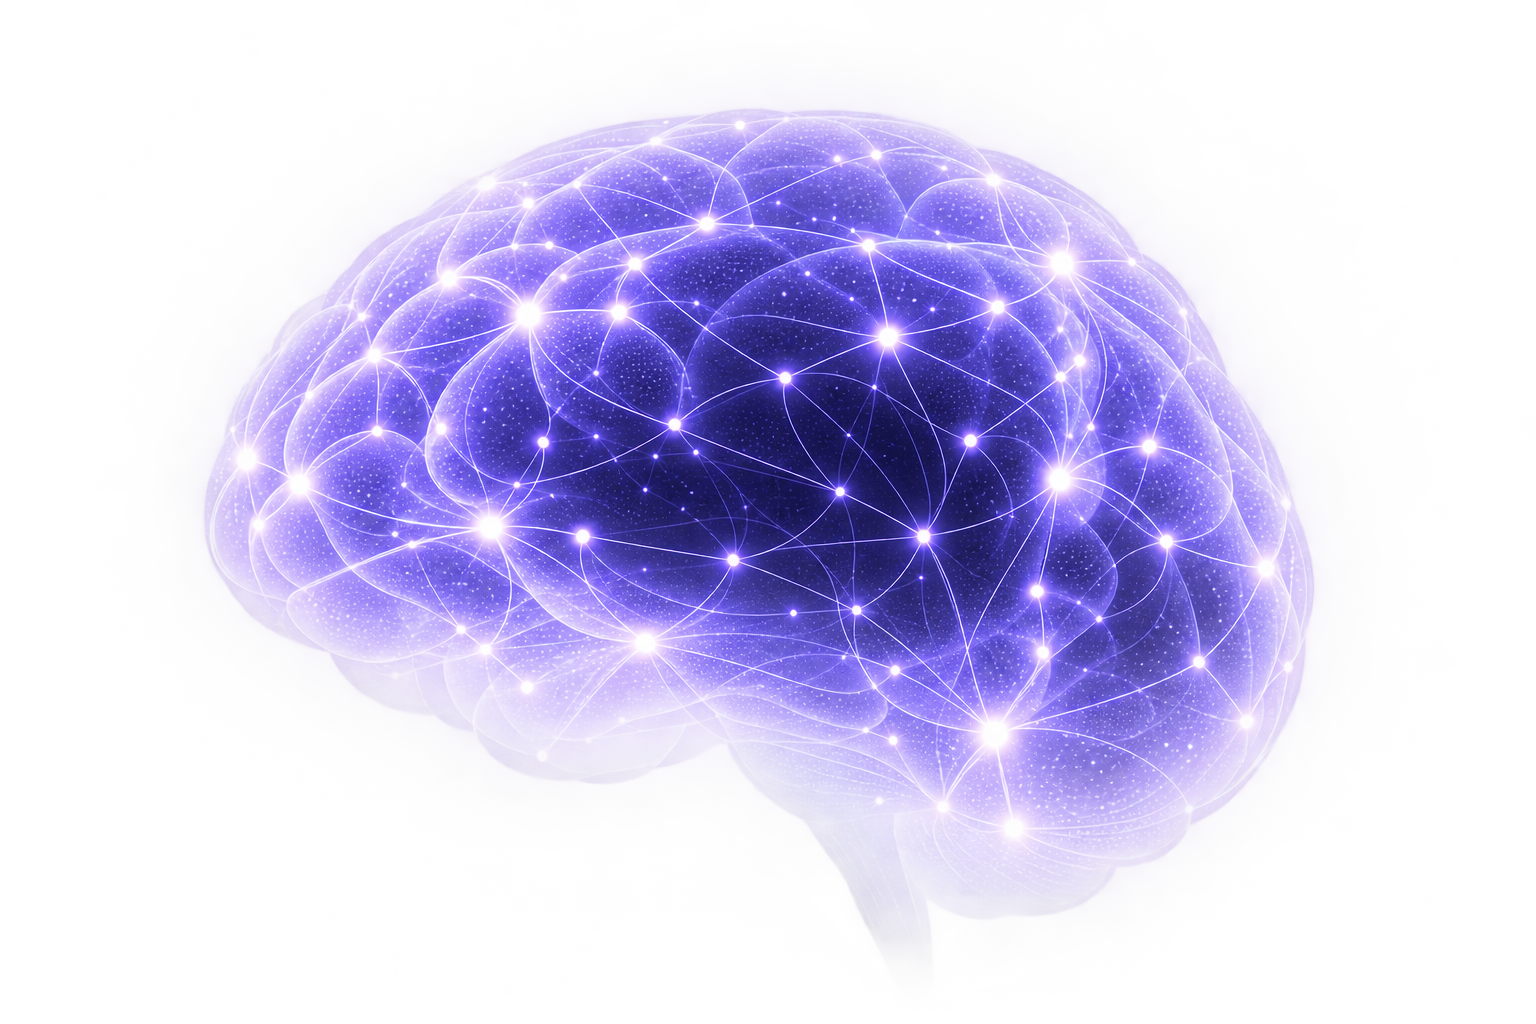
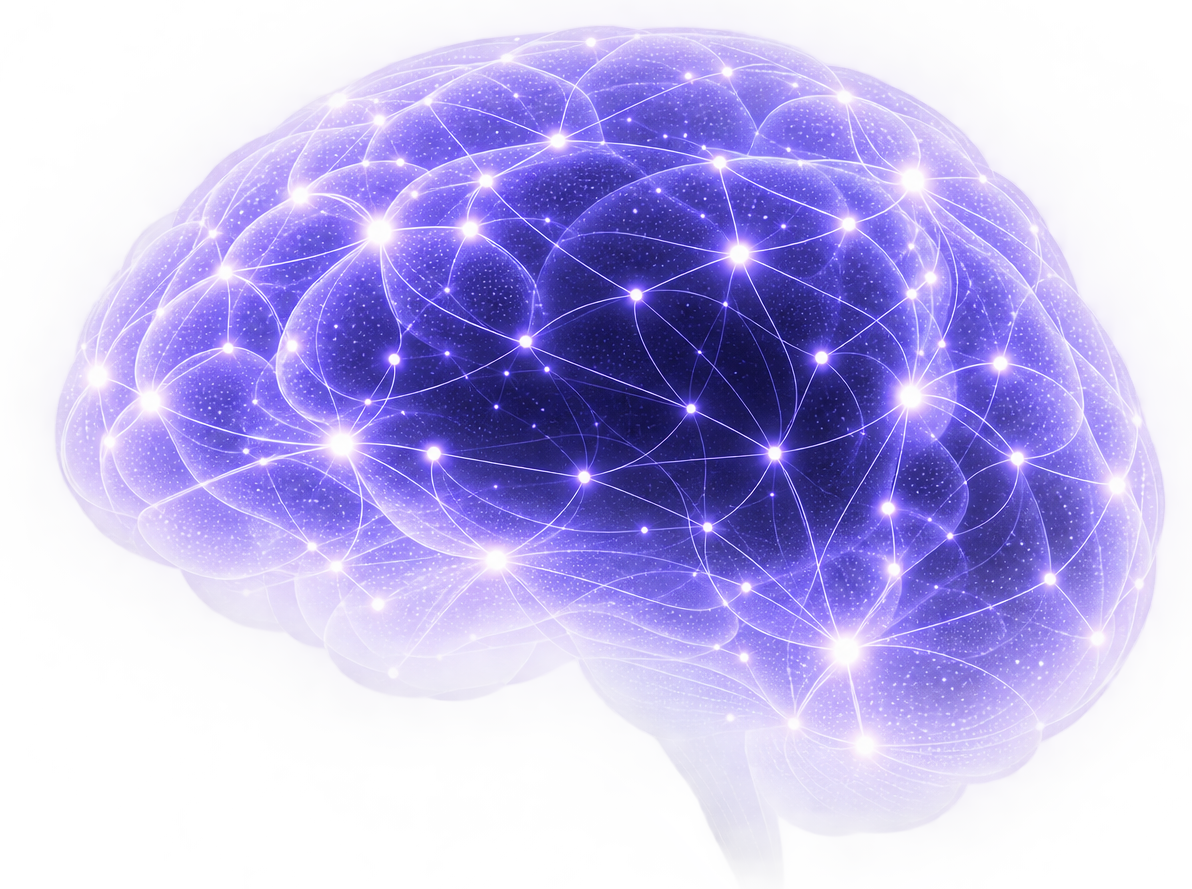
Product section added

diff --git a/app/globals.css b/app/globals.css
@@ -776,3 +776,215 @@ h1,h2,h3,p{margin-top:0}.hero h1,.page-hero h1{font-size:clamp(44px,6vw,82px);li
   .product-card-link { transition: none; }
   .product-card-link:hover { transform: none; }
 }
+
+.services-section {
+  position: relative;
+  background: #020205;
+  color: #fff;
+  border-top: 1px solid var(--line);
+  overflow: hidden;
+}
+.services-glow {
+  position: absolute;
+  left: 50%;
+  top: 58%;
+  width: min(78vw, 920px);
+  height: min(52vw, 480px);
+  transform: translate(-50%, -50%);
+  background: radial-gradient(ellipse at center, rgba(124, 58, 237, 0.1) 0%, rgba(37, 99, 235, 0.05) 38%, transparent 72%);
+  pointer-events: none;
+}
+.services-inner {
+  position: relative;
+  max-width: 1400px;
+  margin: 0 auto;
+  padding: 120px 32px 128px;
+}
+.services-heading {
+  max-width: 820px;
+  margin: 0 0 64px;
+}
+.services-heading h2 {
+  font-size: clamp(32px, 3.8vw, 52px);
+  font-weight: 400;
+  letter-spacing: -0.035em;
+  line-height: 1.05;
+  margin: 12px 0 10px;
+}
+.services-heading h2 em {
+  font-style: normal;
+  background: linear-gradient(90deg, #ddd6fe 0%, var(--violet-soft) 42%, #7c6bff 72%, #60a5fa 100%);
+  -webkit-background-clip: text;
+  background-clip: text;
+  color: transparent;
+}
+.services-heading p {
+  color: #a1a1aa;
+  max-width: 540px;
+  line-height: 1.6;
+  font-size: 15px;
+  margin: 0;
+}
+.services-grid {
+  display: grid;
+  grid-template-columns: 1fr;
+  gap: 16px;
+}
+.service-card-wrap {
+  min-width: 0;
+  height: 100%;
+}
+.service-card {
+  position: relative;
+  isolation: isolate;
+  display: flex;
+  flex-direction: column;
+  height: 100%;
+  min-height: 280px;
+  padding: 28px;
+  border-radius: 24px;
+  overflow: hidden;
+  color: inherit;
+  background-color: #08070c;
+  background-image:
+    radial-gradient(ellipse 70% 90% at 100% 0%, rgba(124, 58, 237, 0.08), transparent 52%),
+    linear-gradient(165deg, #121018 0%, #0b0a10 58%, #08070c 100%);
+  border: 1px solid rgba(255, 255, 255, 0.08);
+  box-shadow: 0 18px 48px rgba(0, 0, 0, 0.28);
+  transition: border-color 0.3s ease, box-shadow 0.3s ease, transform 0.3s ease;
+}
+.service-card::before {
+  content: "";
+  position: absolute;
+  inset: 0;
+  z-index: -1;
+  background:
+    radial-gradient(ellipse 80% 70% at 100% 0%, rgba(124, 58, 237, 0.16), transparent 55%),
+    radial-gradient(ellipse 60% 50% at 0% 100%, rgba(59, 130, 246, 0.08), transparent 52%);
+  opacity: 0.28;
+  transition: opacity 0.3s ease;
+  pointer-events: none;
+}
+.service-card-icon {
+  display: inline-flex;
+  align-items: center;
+  justify-content: center;
+  width: 40px;
+  height: 40px;
+  margin-bottom: 28px;
+  border-radius: 12px;
+  background: rgba(255, 255, 255, 0.05);
+  border: 1px solid rgba(255, 255, 255, 0.08);
+  color: #c4b5fd;
+  transition: background 0.3s ease, border-color 0.3s ease, color 0.3s ease;
+}
+.service-card h3 {
+  color: #fff;
+  font-size: 22px;
+  font-weight: 400;
+  letter-spacing: -0.02em;
+  line-height: 1.2;
+  margin: 0 0 12px;
+}
+.service-card p {
+  color: #a1a1aa;
+  font-size: 14px;
+  line-height: 1.65;
+  margin: 0;
+  max-width: 34ch;
+  transition: color 0.3s ease;
+}
+.service-card-cta {
+  display: inline-flex;
+  align-items: center;
+  gap: 8px;
+  margin-top: auto;
+  padding-top: 28px;
+  color: #d6d2db;
+  font-size: 13px;
+  font-weight: 600;
+  letter-spacing: 0.01em;
+  transition: color 0.3s ease;
+}
+.service-card-arrow {
+  display: inline-block;
+  transition: transform 0.3s ease;
+}
+.service-card:hover,
+.service-card:focus-visible {
+  transform: translateY(-4px);
+  border-color: rgba(139, 92, 246, 0.38);
+  box-shadow: 0 24px 56px rgba(0, 0, 0, 0.32), 0 0 36px rgba(124, 58, 237, 0.12);
+}
+.service-card:hover::before,
+.service-card:focus-visible::before {
+  opacity: 1;
+}
+.service-card:hover .service-card-icon,
+.service-card:focus-visible .service-card-icon {
+  background: rgba(139, 92, 246, 0.14);
+  border-color: rgba(196, 181, 253, 0.28);
+  color: #ddd6fe;
+}
+.service-card:hover p,
+.service-card:focus-visible p {
+  color: #d4d4d8;
+}
+.service-card:hover .service-card-cta,
+.service-card:focus-visible .service-card-cta {
+  color: #fff;
+}
+.service-card:hover .service-card-arrow,
+.service-card:focus-visible .service-card-arrow {
+  transform: translateX(4px);
+}
+.service-card:focus-visible {
+  outline: 2px solid var(--violet-soft);
+  outline-offset: 3px;
+}
+@media (min-width: 801px) {
+  .services-grid {
+    grid-template-columns: repeat(2, minmax(0, 1fr));
+    gap: 18px;
+  }
+}
+@media (min-width: 1181px) {
+  .services-grid {
+    grid-template-columns: repeat(4, minmax(0, 1fr));
+    gap: 16px;
+  }
+  .service-card {
+    padding: 26px 24px;
+  }
+  .service-card h3 {
+    font-size: 20px;
+  }
+}
+@media (max-width: 1180px) and (min-width: 801px) {
+  .services-inner { padding: 112px 24px 120px; }
+  .services-heading { margin-bottom: 52px; }
+  .services-heading h2 { font-size: clamp(28px, 3.6vw, 40px); }
+  .service-card { min-height: 268px; }
+}
+@media (max-width: 800px) {
+  .services-inner { padding: 88px 20px 96px; }
+  .services-heading { margin-bottom: 36px; }
+  .services-heading h2 { font-size: clamp(32px, 9vw, 44px); }
+  .service-card {
+    min-height: 260px;
+    padding: 26px 22px;
+    border-radius: 22px;
+  }
+}
+@media (prefers-reduced-motion: reduce) {
+  .service-card,
+  .service-card::before,
+  .service-card-icon,
+  .service-card p,
+  .service-card-cta,
+  .service-card-arrow { transition: none; }
+  .service-card:hover,
+  .service-card:focus-visible { transform: none; }
+  .service-card:hover .service-card-arrow,
+  .service-card:focus-visible .service-card-arrow { transform: none; }
+}

diff --git a/lib/services.ts b/lib/services.ts
@@ -1,0 +1,49 @@
+import type { LucideIcon } from 'lucide-react'
+import { Fingerprint, Lightbulb, Sparkles, Workflow } from 'lucide-react'
+
+export type Service = {
+  id: string
+  name: string
+  description: string
+  href: string
+  icon: LucideIcon
+}
+
+export const servicesCopy = {
+  eyebrow: 'SERVICES',
+  titleLead: 'Intelligence Built for the',
+  titleAccent: 'Real World.',
+  intro:
+    'From specialized AI agents to complete enterprise systems, we design and deploy intelligent solutions that work alongside people and existing technology.',
+} as const
+
+export const services: Service[] = [
+  {
+    id: 'personalized-agents',
+    name: 'Personalized Agents',
+    description: 'Specialized AI agents designed around your workflows, goals and business needs.',
+    href: '/services/personalized-agents',
+    icon: Sparkles,
+  },
+  {
+    id: 'agentic-enterprises',
+    name: 'Agentic Enterprises',
+    description: 'AI-powered operating systems that connect people, knowledge, agents and business systems.',
+    href: '/services/agentic-enterprises',
+    icon: Workflow,
+  },
+  {
+    id: 'polymathground',
+    name: 'PolymathGround',
+    description: 'An ecosystem for founders, builders and innovators creating the next generation of intelligent products.',
+    href: '/services/polymathground-startups',
+    icon: Lightbulb,
+  },
+  {
+    id: 'qaq-passport',
+    name: 'QaQ Passport',
+    description: 'A portable record of skills, projects and verified capabilities.',
+    href: '/services/qaq-passport',
+    icon: Fingerprint,
+  },
+]

diff --git a/components/services-section.tsx b/components/services-section.tsx
@@ -1,0 +1,25 @@
+import { SectionLabel } from '@/components/section-label'
+import { ServiceCard } from '@/components/service-card'
+import { services, servicesCopy } from '@/lib/services'
+
+export function ServicesSection() {
+  return (
+    <section className="services-section" id="services" aria-labelledby="services-heading">
+      <div className="services-glow" aria-hidden="true" />
+      <div className="services-inner">
+        <header className="services-heading">
+          <SectionLabel>{servicesCopy.eyebrow}</SectionLabel>
+          <h2 id="services-heading">
+            {servicesCopy.titleLead} <em>{servicesCopy.titleAccent}</em>
+          </h2>
+          <p>{servicesCopy.intro}</p>
+        </header>
+        <div className="services-grid">
+          {services.map((service) => (
+            <ServiceCard key={service.id} service={service} />
+          ))}
+        </div>
+      </div>
+    </section>
+  )
+}

diff --git a/components/service-card.tsx b/components/service-card.tsx
@@ -1,0 +1,24 @@
+import Link from 'next/link'
+import type { Service } from '@/lib/services'
+
+export function ServiceCard({ service }: { service: Service }) {
+  const Icon = service.icon
+
+  return (
+    <article className="service-card-wrap">
+      <Link href={service.href} className="service-card">
+        <span className="service-card-icon" aria-hidden="true">
+          <Icon size={18} strokeWidth={1.6} />
+        </span>
+        <h3>{service.name}</h3>
+        <p>{service.description}</p>
+        <span className="service-card-cta">
+          Explore Service
+          <span className="service-card-arrow" aria-hidden="true">
+            →
+          </span>
+        </span>
+      </Link>
+    </article>
+  )
+}

diff --git a/app/page.tsx b/app/page.tsx
@@ -3,6 +3,7 @@ import FAQSection from '@/components/FAQSection'
 import { HeroSection } from '@/components/hero-section'
 import { JourneySection } from '@/components/journey-section'
 import { ProductSection } from '@/components/product-section'
+import { ServicesSection } from '@/components/services-section'
 import { SiteShell } from '@/components/site-shell'
 
 export default function Page() {
@@ -11,6 +12,7 @@ export default function Page() {
       <HeroSection />
       <JourneySection />
       <ProductSection />
+      <ServicesSection />
       <BookPreorderSection/>
       <FAQSection/>
     </SiteShell>
